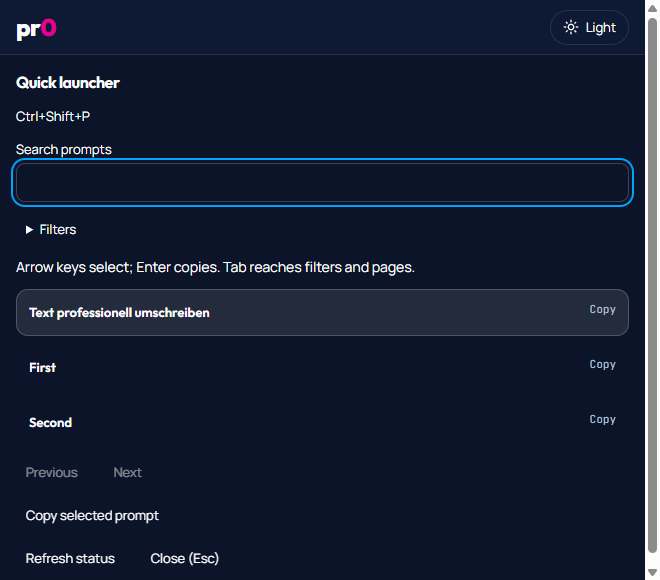
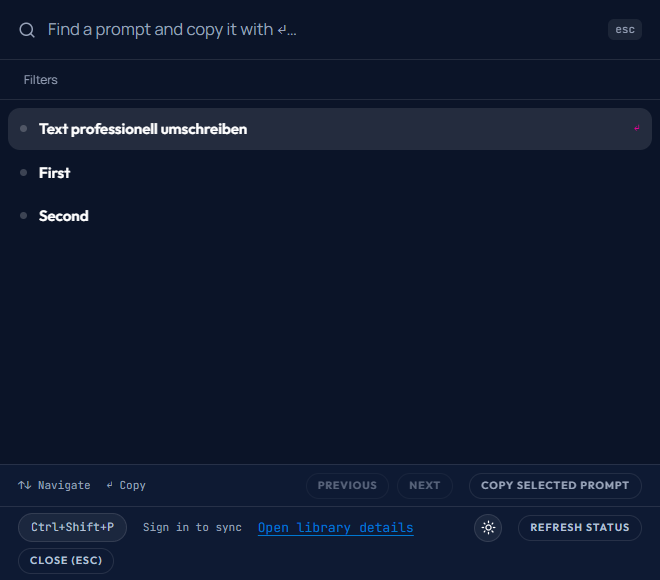
Give the launcher a theme control and steady the desktop design journey for #75

diff --git a/packages/ui/src/components/wayfinder-shell.tsx b/packages/ui/src/components/wayfinder-shell.tsx
@@ -59,6 +59,38 @@ export const AppBarStatus = ({
   return target ? createPortal(children, target) : null;
 };
 
+const useTheme = () => useSyncExternalStore(subscribe, readTheme, serverTheme);
+
+/** Switches the theme shared by every pr0 window of this origin. */
+export const ThemeToggle = ({ size = "md" }: { size?: "sm" | "md" }) => {
+  const theme = useTheme();
+  const toggleTheme = () => {
+    temporaryTheme = theme === "dark" ? "light" : "dark";
+    try {
+      localStorage.setItem(themeKey, temporaryTheme);
+      temporaryTheme = undefined;
+    } catch {
+      // Keep a working in-memory theme when browser storage is disabled.
+    }
+    window.dispatchEvent(new Event("pr0-theme"));
+  };
+  return (
+    <button
+      className="wf-icon-btn"
+      data-size={size}
+      type="button"
+      onClick={toggleTheme}
+      aria-label={`Switch to ${theme === "dark" ? "light" : "dark"} theme`}
+    >
+      {theme === "dark" ? (
+        <Sun aria-hidden="true" size={15} />
+      ) : (
+        <Moon aria-hidden="true" size={15} />
+      )}
+    </button>
+  );
+};
+
 export const Wordmark = ({ size }: { size?: "lg" }) => (
   <span className="wf-wordmark" data-size={size}>
     pr<span>0</span>
@@ -110,23 +142,13 @@ export const WayfinderShell = ({
   /** Account menu content shown beneath the identity. */
   menu?: ReactNode;
 }) => {
-  const theme = useSyncExternalStore(subscribe, readTheme, serverTheme);
+  const theme = useTheme();
   const [statusSlot, setStatusSlot] = useState<HTMLElement | null>(null);
   const [controlsSlot, setControlsSlot] = useState<HTMLElement | null>(null);
   const slots = useMemo(
     () => ({ status: statusSlot, controls: controlsSlot }),
     [statusSlot, controlsSlot]
   );
-  const toggleTheme = () => {
-    temporaryTheme = theme === "dark" ? "light" : "dark";
-    try {
-      localStorage.setItem(themeKey, temporaryTheme);
-      temporaryTheme = undefined;
-    } catch {
-      // Keep a working in-memory theme when browser storage is disabled.
-    }
-    window.dispatchEvent(new Event("pr0-theme"));
-  };
   const desktop = surface === "desktop";
   return (
     <div className="wf" data-theme={theme} data-surface={surface}>
@@ -139,19 +161,7 @@ export const WayfinderShell = ({
         </div>
         {desktop ? actions : null}
         <div className="contents" ref={setControlsSlot} />
-        <button
-          className="wf-icon-btn"
-          data-size="md"
-          type="button"
-          onClick={toggleTheme}
-          aria-label={`Switch to ${theme === "dark" ? "light" : "dark"} theme`}
-        >
-          {theme === "dark" ? (
-            <Sun aria-hidden="true" size={15} />
-          ) : (
-            <Moon aria-hidden="true" size={15} />
-          )}
-        </button>
+        <ThemeToggle />
         {identity || menu ? (
           <AppMenu
             label="Account menu"

diff --git a/apps/desktop/src/launcher.tsx b/apps/desktop/src/launcher.tsx
@@ -2,7 +2,10 @@ import type { LauncherStatus } from "@pr0/api-contract/desktop-launcher";
 import { organizationSearch } from "@pr0/api-contract/organization";
 import { CollectionPicker } from "@pr0/ui/components/collection-picker";
 import { TagPicker } from "@pr0/ui/components/tag-picker";
-import { WayfinderShell } from "@pr0/ui/components/wayfinder-shell";
+import {
+  ThemeToggle,
+  WayfinderShell,
+} from "@pr0/ui/components/wayfinder-shell";
 import { accentFor } from "@pr0/ui/lib/present";
 import { Search } from "lucide-react";
 import { StrictMode, useEffect, useEffectEvent, useRef, useState } from "react";
@@ -413,6 +416,7 @@ const LauncherWindow = () => {
             Open library details
           </button>
           <span className="wf-grow" />
+          <ThemeToggle size="sm" />
           <button
             className="wf-btn-quiet"
             type="button"

diff --git a/apps/web/tests/design-desktop.test.ts b/apps/web/tests/design-desktop.test.ts
@@ -123,9 +123,16 @@ test("designed desktop keeps offline persistence, theme and a separate native la
     } finally {
       await releaseClipboard();
     }
+    const previousOpening = await launcher
+      .locator("main")
+      .getAttribute("data-opening");
     await page
       .getByRole("button", { name: "Open quick launcher", exact: true })
       .press("Enter");
+    // Each opening remounts the search; type only into the new one.
+    await launcher
+      .locator(`main:not([data-opening="${previousOpening}"])`)
+      .waitFor();
     await search.fill("Text professionell");
     await launcher
       .getByRole("button", { name: /^Text professionell umschreiben Copy/u })
